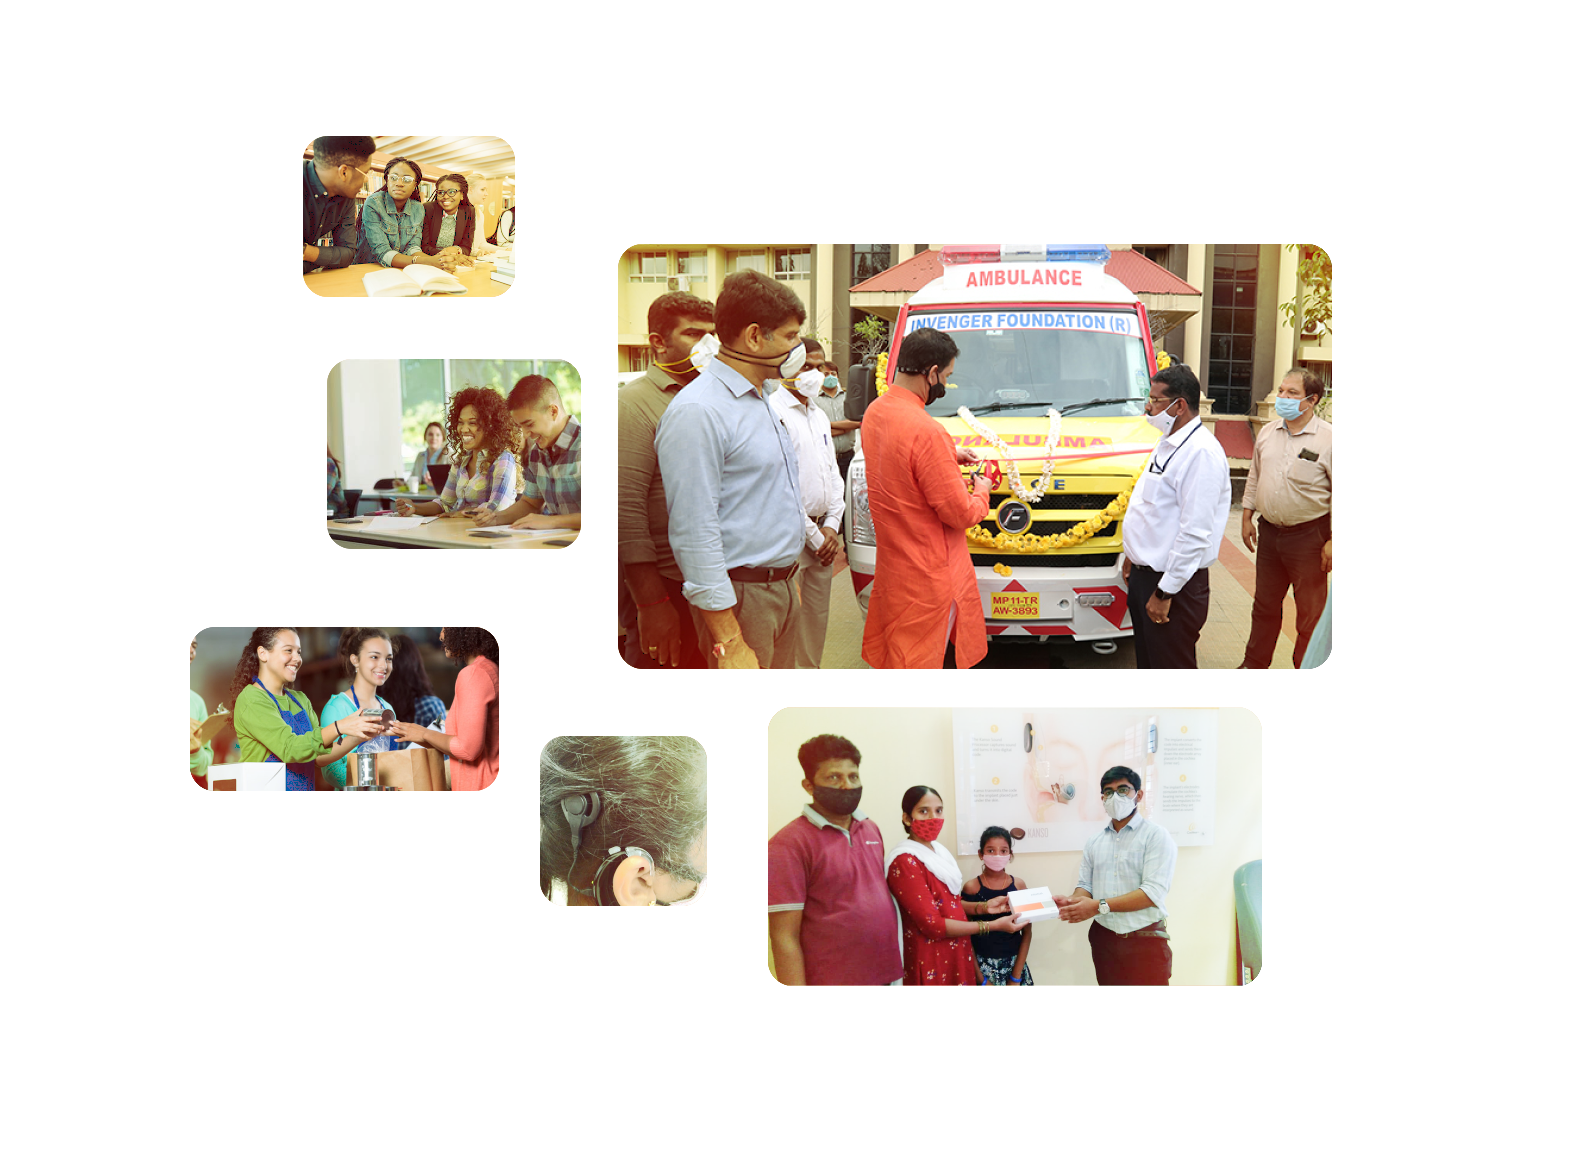
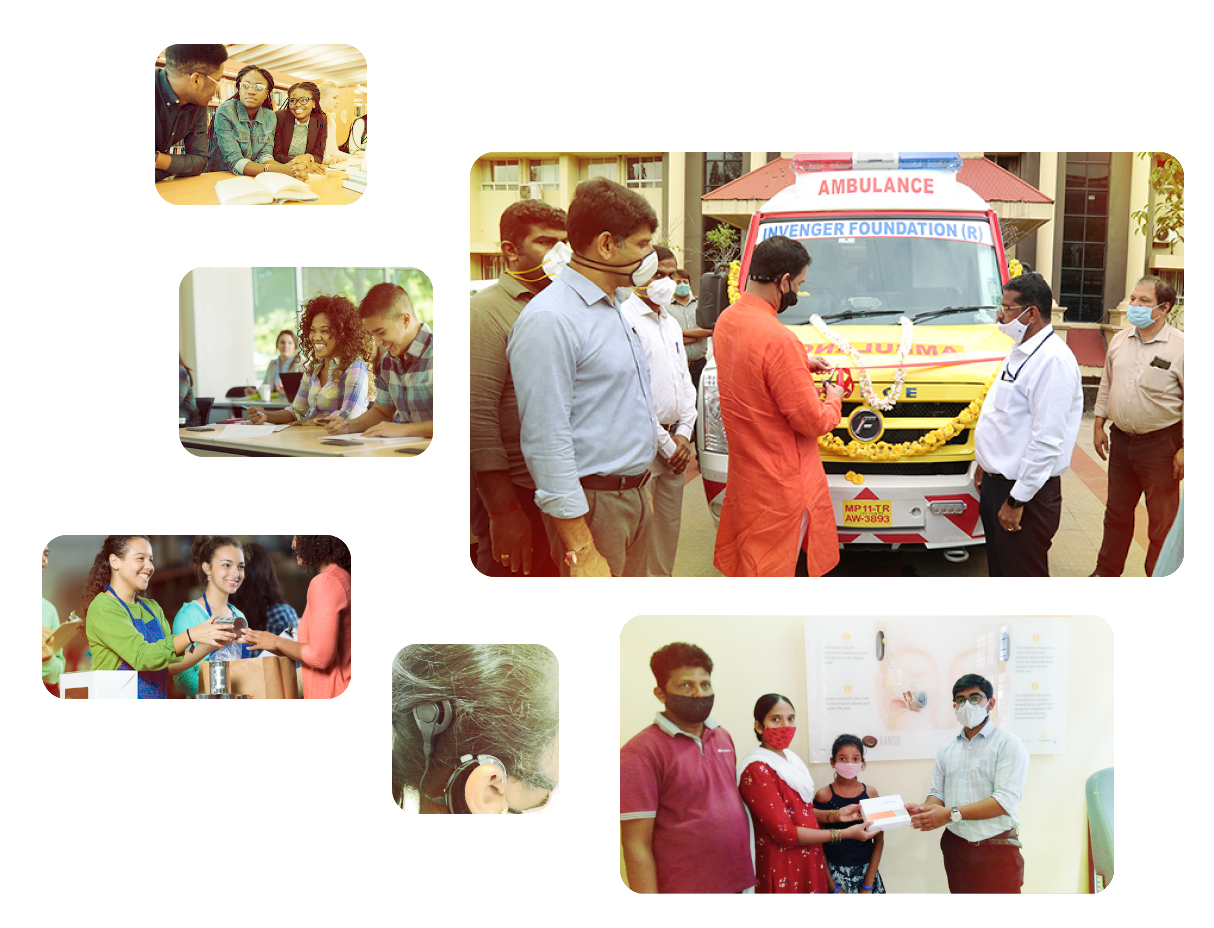
mobile screen layout corrections

diff --git a/index.html b/index.html
@@ -17,7 +17,7 @@
     </head>
 
     <body>
-        <div class="top-menu w-full bg-primary h-12">
+        <div class="top-menu w-full bg-primary min-h-12">
             <div class="container grid grid-cols-2 text-center">
                 <div class="news-ticker py-3 col-span-2 sm:col-span-1 text-white sm:text-left hidden sm:inline-block">
                     <span class="font-bold">Latest</span>
@@ -38,8 +38,8 @@
             <div class="main-menu">
                 <nav class="relative text-primary">
                     <div class="container mx-auto flex flex-col sm:flex-row sm:justify-between">
-                        <div class="relative block p-2">
-                            <img src="/img/sakar_logo.svg" class="h-16 w-auto my-3" alt="">
+                        <div class="relative block p-2  text-center sm:text-left">
+                            <img src="/img/sakar_logo.svg" class="h-16 w-auto my-3 mx-auto sm:mx-0" alt="">
                         </div>
                         <ul class="menu-items flex overflow-x-auto">
 
@@ -320,13 +320,13 @@
             <div class="section bg-section" style="background-image: url(/img/logo-gradient-inverse.svg);">
                 <div class="container">
                     <div class="grid grid-cols-3">
-                        <div class="col-span-3 sm:col-span-1 py-52">
+                        <div class="col-span-3 sm:col-span-1 py-10 sm:py-52">
                             <div class="heading text-primary">Sākār Spark</div>
                             <p class="support-text">Supporting initiatives led by youth through <br>
                                 our non-profit incubator</p>
                             <a href="" class="arrow-btn text-primary font-bold">Learn more</a>
                         </div>
-                        <div class="col-span-3 sm:col-span-2">
+                        <div class="col-span-3 sm:col-span-2 sm:py-5">
                             <img class="w-full h-auto" src="/img/hero.png" alt="">
                         </div>
                     </div>
@@ -337,7 +337,7 @@
                         <div class="col-span-2 sm:col-span-1 bg-cover bg-center"
                             style="background-image: url('/img/kids3.jpg');">
                         </div>
-                        <div class="col-span-2 sm:col-span-1 py-32 pl-12">
+                        <div class="col-span-2 sm:col-span-1 py-16 sm:py-32 pl-12">
                             <div class="container">
                                 <div class="heading text-white">Youth can LEAD, <br> Youth can CARE.</div>
                                 <p class="support-text text-white">
@@ -402,7 +402,7 @@
                     <div class="heading text-center text-primary">
                         Start your own fundraiser
                     </div>
-                    <div class="grid grid-cols-3 sm:gap-16 mt-16">
+                    <div class="grid grid-cols-3 sm:gap-16 mt-16 text-center sm:text-left">
                         <div class="col-span-3 sm:col-span-1 table sm:border-dashed sm:border-gray-600 sm:border-r">
                             <span class="text-6xl text-primary table-cell p-2">1</span>
                             <span class="table-cell align-middle text-xl">Register yourself <br> at Sākār</span>
@@ -427,22 +427,24 @@
         </div>
 
         <footer>
-            <div class="footer-top bg-gray-200 pt-8  text-primary">
+            <div class="footer-top bg-gray-200 sm:pt-8  text-primary text-center sm:text-left">
                 <div class="container">
-                    <div class="grid grid-cols-3 py-8">
-                        <div class="col-span-3 sm:col-auto">
+                    <div class="grid grid-cols-3 py-0 sm:py-8">
+                        <div
+                            class="col-span-3 py-5 sm:py-0 sm:col-auto border-b border-dashed border-primary sm:border-none">
                             <a class="block py-2 hover:underline" href="">About us</a>
                             <a class="block py-2 hover:underline" href="">How How Sākār helps</a>
                             <a class="block py-2 hover:underline" href="">Sākār News</a>
                             <a class="block py-2 hover:underline" href="">Contact Us</a>
                         </div>
-                        <div class="col-span-3 sm:col-auto">
+                        <div
+                            class="col-span-3 py-5 sm:py-0 sm:col-auto border-b border-dashed border-primary sm:border-none">
                             <a class="block py-2 hover:underline" href="">Whitepapers</a>
                             <a class="block py-2 hover:underline" href="">Leadership</a>
                             <a class="block py-2 hover:underline" href="">Privacy policy</a>
                             <a class="block py-2 hover:underline" href="">Terms and condition</a>
                         </div>
-                        <div class="col-span-3 sm:col-auto">
+                        <div class="col-span-3 sm:col-auto py-5 sm:py-0">
                             <div class="table text-center">
                                 <img src="/img/sakar_logo.svg"
                                     class="w-8/12 h-auto mb-3 mx-auto table-cell align-middle" alt="">

diff --git a/Empty-template.html b/Empty-template.html
@@ -16,7 +16,7 @@
   </head>
 
   <body>
-    <div class="top-menu w-full bg-primary h-12">
+    <div class="top-menu w-full bg-primary min-h-12">
       <div class="container grid grid-cols-2 text-center">
         <div class="news-ticker py-3 col-span-2 sm:col-span-1 text-white sm:text-left hidden sm:inline-block">
           <span class="font-bold">Latest</span>
@@ -37,7 +37,7 @@
       <div class="main-menu">
         <nav class="relative text-primary">
           <div class="container mx-auto flex flex-col sm:flex-row sm:justify-between">
-            <div class="relative block p-2">
+            <div class="relative block p-2 text-center sm:text-left">
               <img src="/img/sakar_logo.svg" class="h-16 w-auto my-3" alt="">
             </div>
             <ul class="menu-items flex overflow-x-auto">
@@ -297,28 +297,29 @@
     </div>
 
     <footer>
-      <div class="footer-top bg-gray-200 pt-8  text-primary">
+      <div class="footer-top bg-gray-200 sm:pt-8  text-primary text-center sm:text-left">
         <div class="container">
-          <div class="grid grid-cols-3 py-8">
-            <div class="col-span-3 sm:col-auto">
+          <div class="grid grid-cols-3 py-0 sm:py-8">
+            <div class="col-span-3 py-5 sm:py-0 sm:col-auto border-b border-dashed border-primary sm:border-none">
               <a class="block py-2 hover:underline" href="">About us</a>
               <a class="block py-2 hover:underline" href="">How How Sākār helps</a>
               <a class="block py-2 hover:underline" href="">Sākār News</a>
               <a class="block py-2 hover:underline" href="">Contact Us</a>
             </div>
-            <div class="col-span-3 sm:col-auto">
+            <div class="col-span-3 py-5 sm:py-0 sm:col-auto border-b border-dashed border-primary sm:border-none">
               <a class="block py-2 hover:underline" href="">Whitepapers</a>
               <a class="block py-2 hover:underline" href="">Leadership</a>
               <a class="block py-2 hover:underline" href="">Privacy policy</a>
               <a class="block py-2 hover:underline" href="">Terms and condition</a>
             </div>
-            <div class="col-span-3 sm:col-auto">
+            <div class="col-span-3 sm:col-auto py-5 sm:py-0">
               <div class="table text-center">
                 <img src="/img/sakar_logo.svg" class="w-8/12 h-auto mb-3 mx-auto table-cell align-middle" alt="">
                 <address class="text-gray-800 text-sm not-italic">
                   2929 Tapo Canyon Road Simi Valley, CA 93063
                 </address>
-                <a class="text-gray-800 text-sm not-italic" href="tel:+1 (805) 583-6700">+1 (805) 583-6700</a>
+                <a class="text-gray-800 text-sm not-italic" href="tel:+1 (805) 583-6700">+1 (805)
+                  583-6700</a>
                 <nav class="social text-center text-gray-800">
                   <a href="#"><i class="px-4 inline-block w-4 relative fab fa-facebook"></i></a>
                   <a href="#"><i class="px-4 inline-block w-4 relative fab fa-twitter"></i></a>

diff --git a/style.css b/style.css
@@ -2,12 +2,14 @@
 @tailwind components;
 @tailwind utilities;
 
+html,
 body {
+	overflow-x: hidden;
 	font-family: "Readex Pro", sans-serif;
 }
 
 .container {
-	@apply px-5 py-8 lg:p-0 max-w-6xl 2xl:max-w-7xl mx-auto;
+	@apply p-3 sm:px-5 sm:py-8 lg:p-0 max-w-6xl 2xl:max-w-7xl mx-auto;
 }
 
 .page-body {
@@ -20,7 +22,7 @@ body {
 } */
 
 .heading {
-	@apply font-bold text-5xl mb-3;
+	@apply font-bold text-3xl sm:text-5xl mb-3;
 }
 
 .support-text {
@@ -126,8 +128,14 @@ body {
 }
 
 .bg-section {
-	background-size: 80% auto;
+	background-size: 100% auto;
 	background-position: center;
 	background-attachment: fixed;
 	background-repeat: no-repeat;
+}
+
+@media screen and (min-width: 640px) {
+	.bg-section {
+		background-size: 80% auto;
+	}
 }
